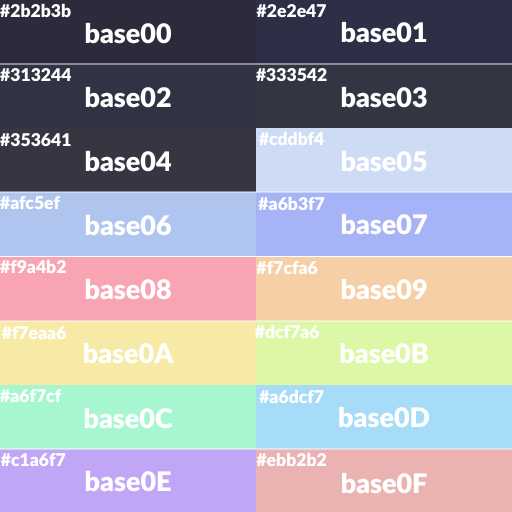
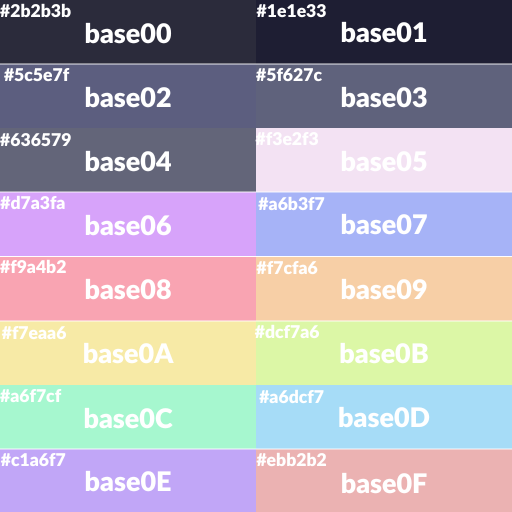
docs: update preview image

Changed region(s): [[0.0, 0.125, 1.0, 0.5], [0.5, 0.0, 0.6562, 0.0312]]

diff --git a/README.md b/README.md
@@ -16,7 +16,7 @@ base03 hsl(234, 13%, 43%) #5f627c
 
 base04 hsl(233, 10%, 43%) #636579
 
-base05 hsl(300, 64%, 85%) #f1c0f1
+base05 hsl(300, 42%, 92%) #f3e2f3
 
 base06 hsl(276, 90%, 81%) #d7a3fa
 
